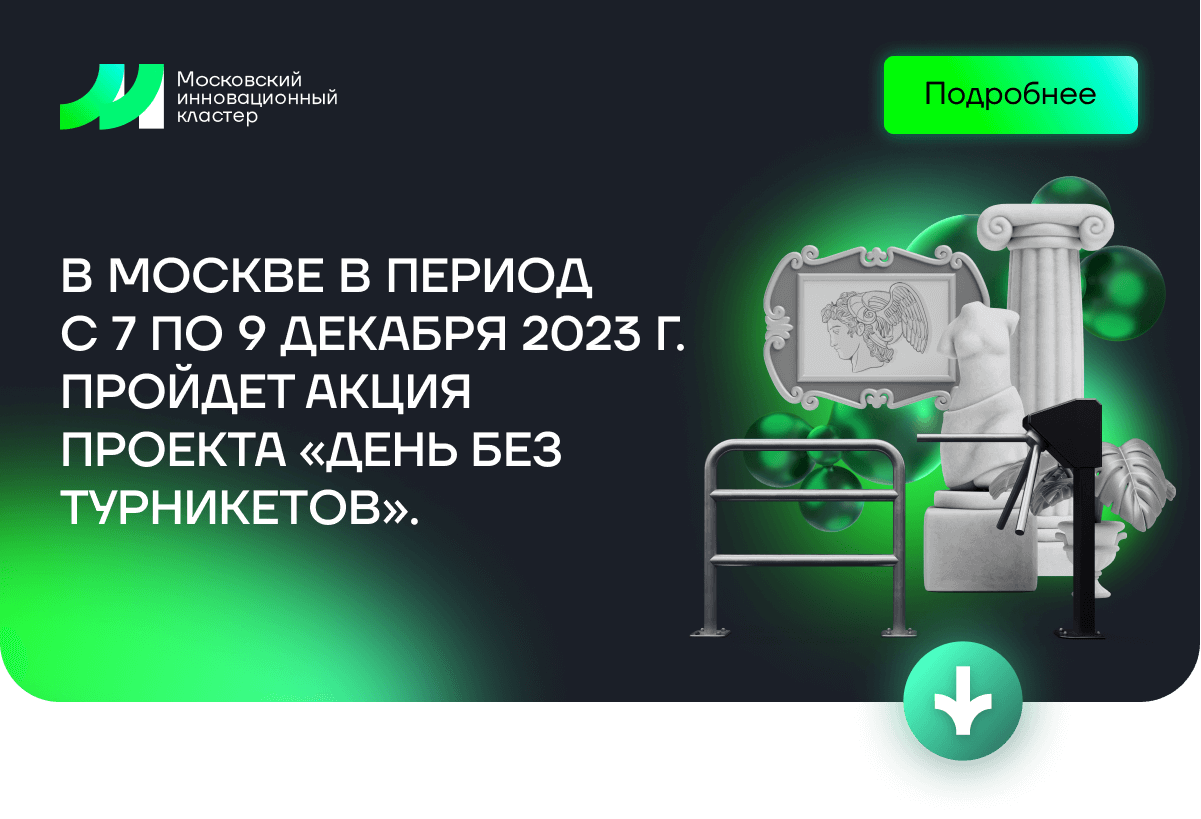
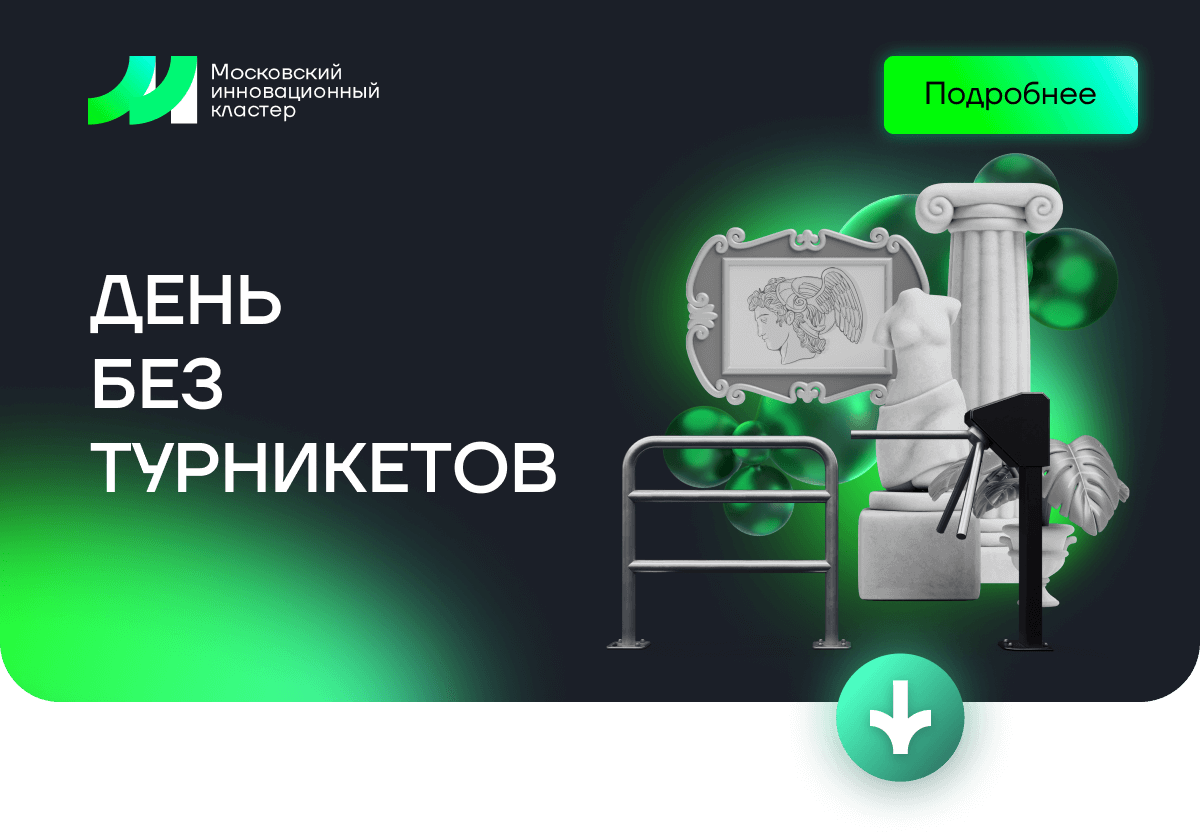
change mik-9

Changed region(s): [[0.0, 0.0611, 0.9867, 0.9768], [0.0308, 0.0611, 0.3083, 0.1526], [0.9867, 0.7631, 1.0, 0.8242]]

diff --git a/mik-9/День без турникетов.html b/mik-9/День без турникетов.html
@@ -103,12 +103,36 @@
                                         <tr>
                                             <td style="width:600px;">
                                                 <a href="https://turniketovnet.ru/registration-partner/?utm_source=email&utm_medium=newsletter&utm_campaign=aim&utm_content=partner" target="_blank">
-                                                    <img alt="В Москве в период с&nbsp;7 по&nbsp;9 декабря 2023 г. пройдет акция проекта «День без турникетов»." height="auto" src="https://cp.unisender.com/ru/user_file?resource=images&user_id=5608985&name=mik-9-hero.png" style="border:0;display:block;outline:none;text-decoration:none;height:auto;width:100%;font-size:13px;" width="600" />
+                                                    <img alt="День без турникетов." height="auto" src="https://cp.unisender.com/ru/user_file?resource=images&user_id=5608985&name=mik-9-hero.png" style="border:0;display:block;outline:none;text-decoration:none;height:auto;width:100%;font-size:13px;" width="600" />
                                                 </a>
                                             </td>
                                         </tr>
                                         </tbody>
                                     </table>
+                                </td>
+                            </tr>
+                            </tbody>
+                        </table>
+                    </div>
+                    <!--[if mso | IE]></td></tr></table><![endif]-->
+                </td>
+            </tr>
+            </tbody>
+        </table>
+    </div>
+    <!--[if mso | IE]></td></tr></table><table align="center" border="0" cellpadding="0" cellspacing="0" class="" style="width:560px;" width="560" ><tr><td style="line-height:0px;font-size:0px;mso-line-height-rule:exactly;"><![endif]-->
+    <div style="margin:0px auto;max-width:560px;box-shadow: 0px 2.22222px 30px 0px rgba(0, 0, 0, 0.10);border-radius:20px;margin-bottom:30px;">
+        <table align="center" border="0" cellpadding="0" cellspacing="0" role="presentation" style="width:100%;box-shadow: 0px 2.22222px 30px 0px rgba(0, 0, 0, 0.10);border-radius:20px;">
+            <tbody>
+            <tr>
+                <td style="direction:ltr;font-size:0px;padding:20px 30px;">
+                    <!--[if mso | IE]><table role="presentation" border="0" cellpadding="0" cellspacing="0"><tr><td class="" style="vertical-align:top;width:600px;" ><![endif]-->
+                    <div class="mj-column-per-100 mj-outlook-group-fix" style="font-size:0px;text-align:left;direction:ltr;display:inline-block;vertical-align:top;width:100%;">
+                        <table border="0" cellpadding="0" cellspacing="0" role="presentation" style="vertical-align:top;" width="100%">
+                            <tbody>
+                            <tr>
+                                <td align="left" style="font-size:0px;word-break:break-word;">
+                                    <div style="font-family:Gilroy, Helvetica, Arial, sans-serif;font-size:15px;font-weight:600;line-height:120%;text-align:left;color:#000000;max-width:375px;width:100%;">В Москве в период с 7 по 9 декабря 2023 г. пройдет акция проекта «День без турникетов».</div>
                                 </td>
                             </tr>
                             </tbody>
